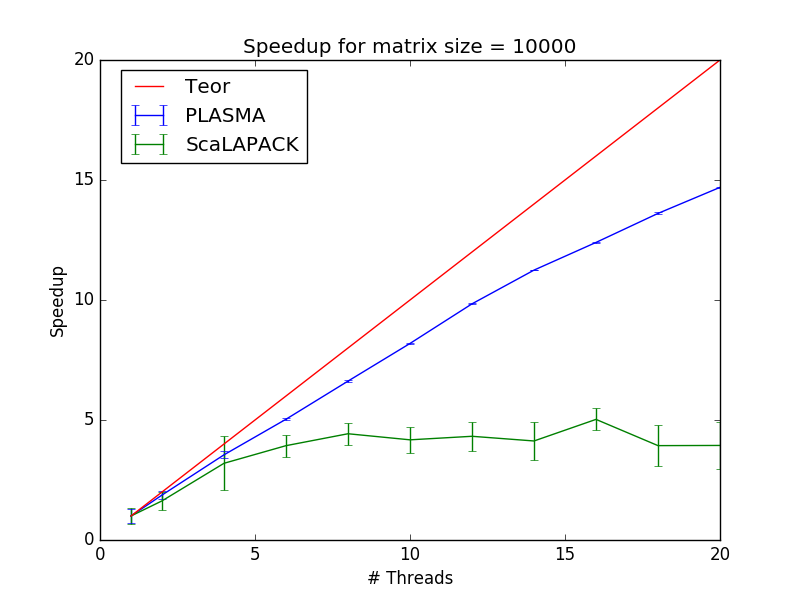
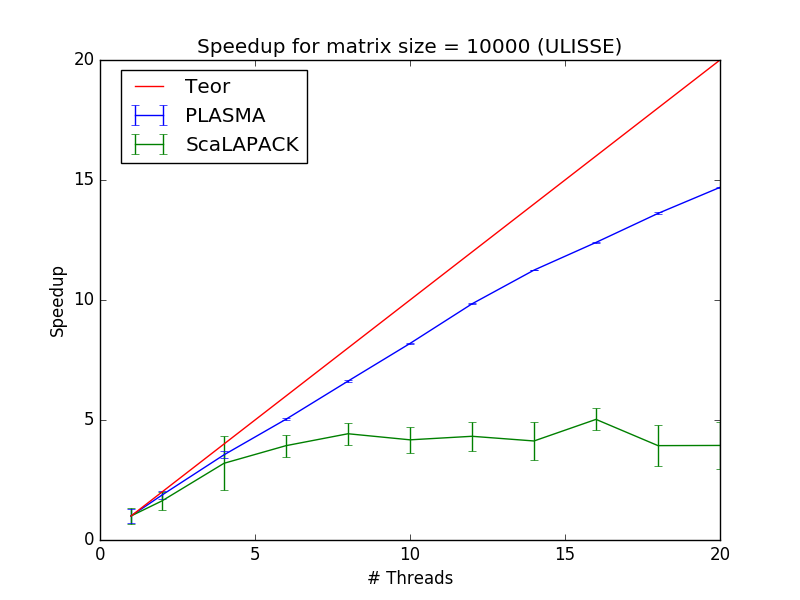
some changes

Changed region(s): [[0.25, 0.06, 0.7812, 0.09]]

diff --git a/D2-exercise/provided_code/doplot.py b/D2-exercise/provided_code/doplot.py
@@ -1,12 +1,12 @@
 import numpy as np
 import matplotlib.pyplot as plt
 
-# data  = np.loadtxt("plasma_timing.safe")
-# ndata = np.loadtxt("scaling_timing.dat")
+data  = np.loadtxt("plasma_timing.safe")
+ndata = np.loadtxt("scaling_timing.dat")
 # data  = np.loadtxt("4000plasma_timing.dat")
 # ndata = np.loadtxt("4000new_timing.dat")
-data  = np.loadtxt("10plasma_timing.dat")
-ndata = np.loadtxt("10new_timing.dat")
+# data  = np.loadtxt("10plasma_timing.dat")
+# ndata = np.loadtxt("10new_timing.dat")
 
 size_m = data[:,0]
 sec    = data[:,1]
@@ -65,11 +65,13 @@ plt.figure()
 plt.errorbar(s, speedup, yerr=err, label = 'PLASMA')
 plt.errorbar(s, nspeedup, yerr=nerr, label = 'ScaLAPACK')
 plt.plot(s, s, label = 'Teor')
-# plt.title('Speedup for matrix size = 8000')
-# plt.title('Speedup for matrix size = 4000')
-plt.title('Speedup for matrix size = 10000')
+plt.title('Speedup for matrix size = 8000 (ULISSE)')
+# plt.title('Speedup for matrix size = 4000 (ULISSE)')
+# plt.title('Speedup for matrix size = 10000 (ULISSE)')
 plt.xlabel('# Threads')
 plt.ylabel('Speedup')
 plt.legend(bbox_to_anchor = (.35, 1.))
 # plt.show()
-plt.savefig('scaling_10.png')
+plt.savefig('scaling_8000.png')
+# plt.savefig('scaling_4000.png')
+# plt.savefig('scaling_10.png')
